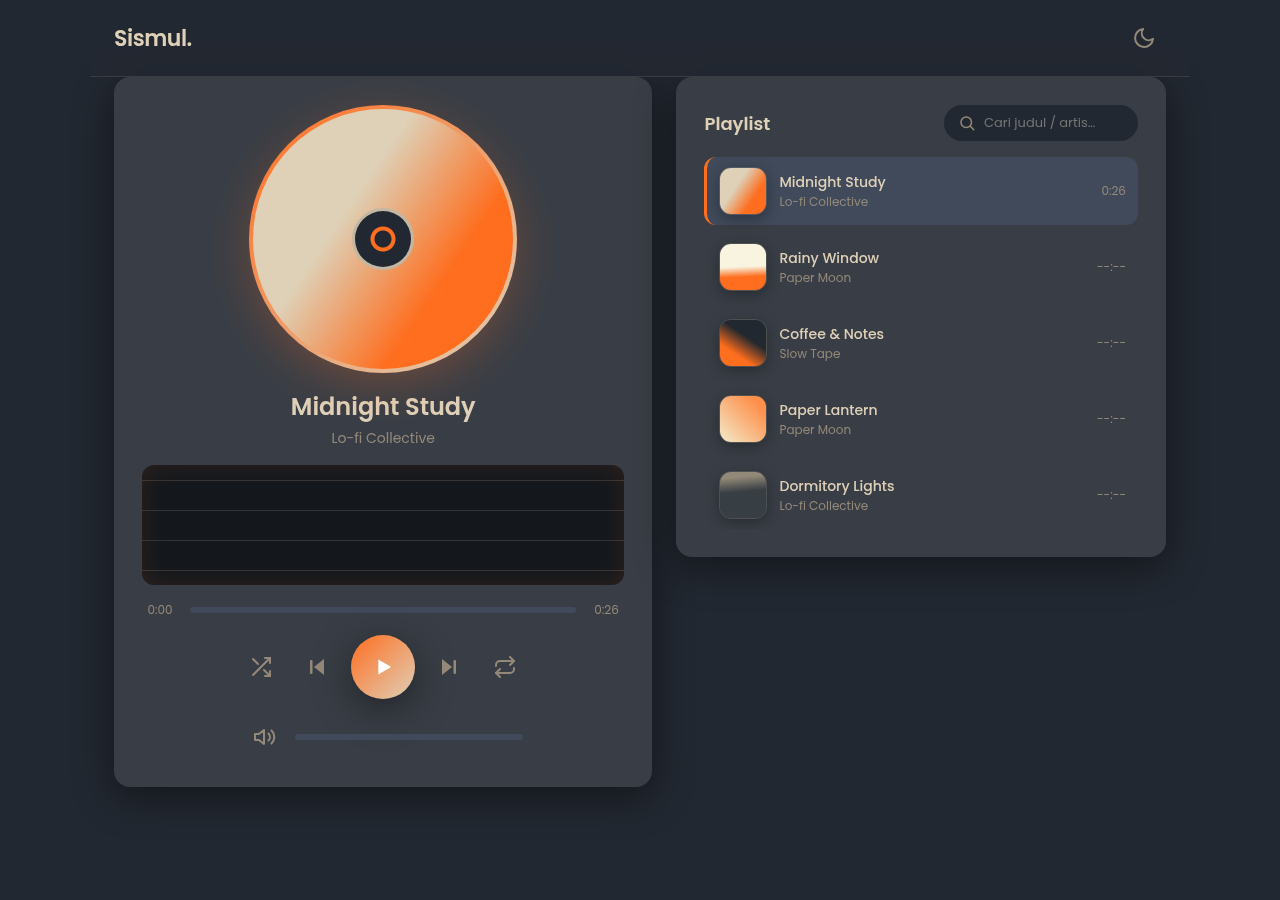
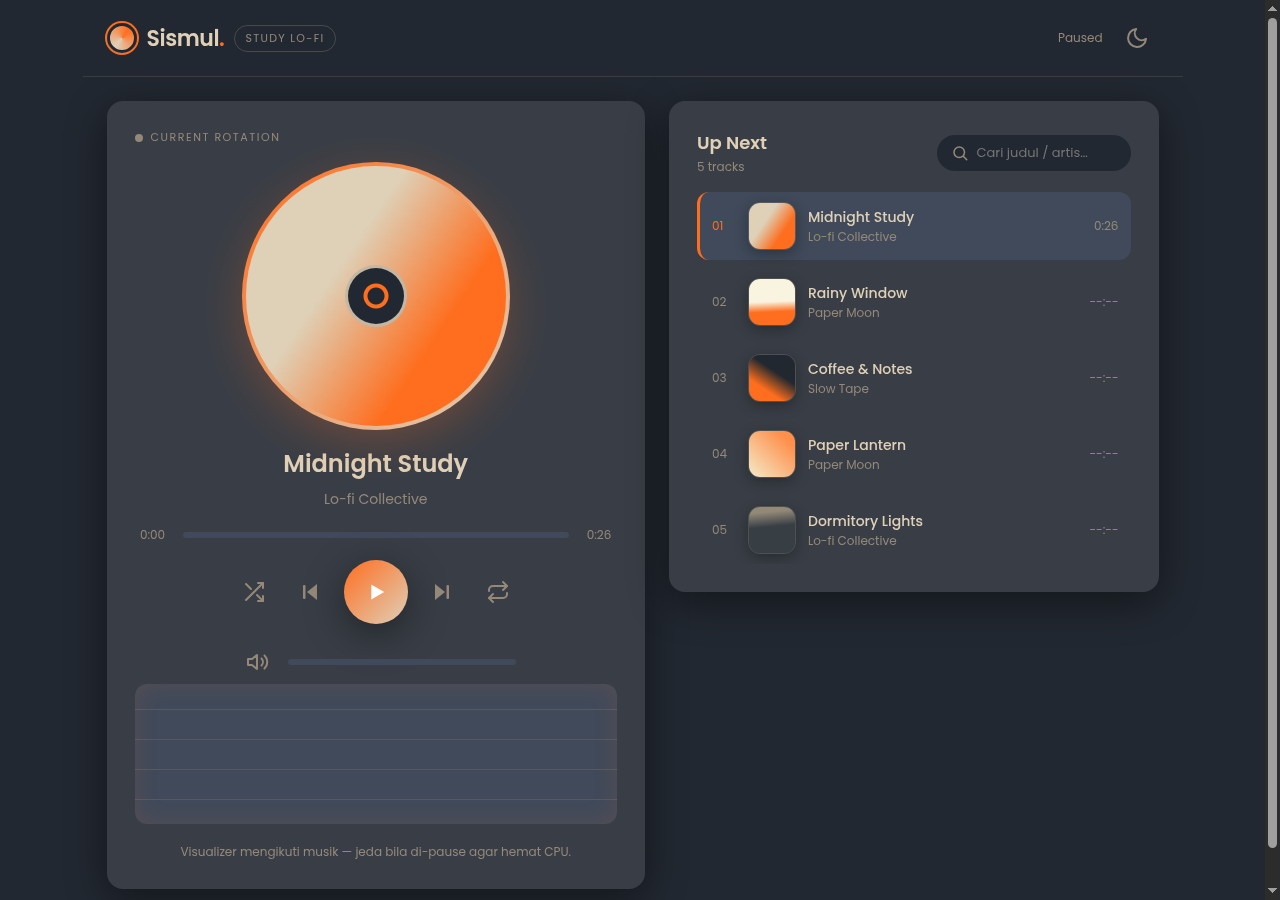
redesign: stitch quality suite wholesale, keep player logic

diff --git a/index.html b/index.html
@@ -12,63 +12,78 @@
 </head>
 <body>
   <header class="header">
-    <p class="header__logo">Sismul<span class="header__logo-dot">.</span></p>
-    <button class="btn-icon" id="themeToggle" type="button" aria-label="Ganti tema gelap terang">
-      <svg viewBox="0 0 24 24" width="24" height="24" fill="none" stroke="currentColor" stroke-width="2" stroke-linecap="round" stroke-linejoin="round" aria-hidden="true"><path d="M21 12.8A9 9 0 1 1 11.2 3a7 7 0 0 0 9.8 9.8z"/></svg>
-    </button>
+    <div class="header__brand">
+      <span class="header__mark" aria-hidden="true"></span>
+      <p class="header__logo">Sismul<span class="header__logo-dot">.</span></p>
+      <span class="header__tag">study lo-fi</span>
+    </div>
+    <div class="header__actions">
+      <span class="header__status" id="headerStatus">Paused</span>
+      <button class="btn-icon" id="themeToggle" type="button" aria-label="Ganti tema gelap terang">
+        <svg viewBox="0 0 24 24" width="24" height="24" fill="none" stroke="currentColor" stroke-width="2" stroke-linecap="round" stroke-linejoin="round" aria-hidden="true"><path d="M21 12.8A9 9 0 1 1 11.2 3a7 7 0 0 0 9.8 9.8z"/></svg>
+      </button>
+    </div>
   </header>
 
   <main class="layout">
-    <section class="player" aria-label="Pemutar musik">
-      <div class="player__cover-wrap">
-        <img class="player__cover" id="cover" src="assets/images/cover1.jpg" alt="Cover album Midnight Study" width="260" height="260" fetchpriority="high">
-      </div>
+    <section class="hero" aria-label="Pemutar musik">
+      <p class="hero__kicker"><span class="hero__dot" aria-hidden="true"></span>Current Rotation</p>
+      <div class="hero__grid">
+        <div class="hero__main">
+          <div class="player__cover-wrap">
+            <img class="player__cover" id="cover" src="assets/images/cover1.jpg" alt="Cover album Midnight Study" width="260" height="260" fetchpriority="high">
+          </div>
 
-      <div class="player__info">
-        <h1 class="player__title" id="trackTitle">Midnight Study</h1>
-        <p class="player__artist" id="trackArtist">Lo-fi Collective</p>
-      </div>
+          <div class="player__info">
+            <h1 class="player__title" id="trackTitle">Midnight Study</h1>
+            <p class="player__artist" id="trackArtist">Lo-fi Collective</p>
+          </div>
 
+          <div class="player__progress">
+            <span class="player__time" id="currentTime">0:00</span>
+            <input class="player__seek" id="seek" type="range" min="0" max="100" value="0" step="0.1" aria-label="Posisi lagu">
+            <span class="player__time" id="duration">0:00</span>
+          </div>
+
+          <div class="player__controls">
+            <button class="btn-icon" id="shuffleBtn" type="button" aria-label="Acak" aria-pressed="false">
+              <svg viewBox="0 0 24 24" width="24" height="24" fill="none" stroke="currentColor" stroke-width="2" stroke-linecap="round" stroke-linejoin="round" aria-hidden="true"><path d="M16 3h5v5"/><path d="M4 20 21 3"/><path d="M21 16v5h-5"/><path d="m15 15 6 6"/><path d="M4 4l5 5"/></svg>
+            </button>
+            <button class="btn-icon" id="prevBtn" type="button" aria-label="Lagu sebelumnya">
+              <svg viewBox="0 0 24 24" width="24" height="24" fill="currentColor" aria-hidden="true"><path d="M19 20 9 12l10-8v16z"/><rect x="5" y="5" width="2.5" height="14" rx="1"/></svg>
+            </button>
+            <button class="btn-play" id="playBtn" type="button" aria-label="Putar">
+              <svg id="iconPlay" viewBox="0 0 24 24" width="28" height="28" fill="currentColor" aria-hidden="true"><path d="M8 5.5v13l11-6.5-11-6.5z"/></svg>
+              <svg id="iconPause" viewBox="0 0 24 24" width="28" height="28" fill="currentColor" aria-hidden="true" hidden><rect x="6" y="5" width="4" height="14" rx="1"/><rect x="14" y="5" width="4" height="14" rx="1"/></svg>
+            </button>
+            <button class="btn-icon" id="nextBtn" type="button" aria-label="Lagu berikutnya">
+              <svg viewBox="0 0 24 24" width="24" height="24" fill="currentColor" aria-hidden="true"><path d="m5 4 10 8-10 8V4z"/><rect x="16.5" y="5" width="2.5" height="14" rx="1"/></svg>
+            </button>
+            <button class="btn-icon" id="repeatBtn" type="button" aria-label="Ulangi" aria-pressed="false">
+              <svg viewBox="0 0 24 24" width="24" height="24" fill="none" stroke="currentColor" stroke-width="2" stroke-linecap="round" stroke-linejoin="round" aria-hidden="true"><path d="m17 2 4 4-4 4"/><path d="M3 11v-1a4 4 0 0 1 4-4h14"/><path d="m7 22-4-4 4-4"/><path d="M21 13v1a4 4 0 0 1-4 4H3"/></svg>
+            </button>
+          </div>
+
+          <div class="player__volume">
+            <button class="btn-icon" id="muteBtn" type="button" aria-label="Bisukan">
+              <svg viewBox="0 0 24 24" width="24" height="24" fill="none" stroke="currentColor" stroke-width="2" stroke-linecap="round" stroke-linejoin="round" aria-hidden="true"><path d="M11 5 6 9H2v6h4l5 4V5z"/><path d="M15.5 8.5a5 5 0 0 1 0 7"/><path d="M18.5 5.5a9 9 0 0 1 0 13"/></svg>
+            </button>
+            <input class="player__vol" id="volume" type="range" min="0" max="1" value="0.8" step="0.01" aria-label="Volume">
+          </div>
+
+          <audio id="audio" preload="metadata"></audio>
+        </div>
+      </div>
       <canvas class="player__visual" id="visualizer" width="600" height="120" aria-hidden="true"></canvas>
-
-      <div class="player__progress">
-        <span class="player__time" id="currentTime">0:00</span>
-        <input class="player__seek" id="seek" type="range" min="0" max="100" value="0" step="0.1" aria-label="Posisi lagu">
-        <span class="player__time" id="duration">0:00</span>
-      </div>
-
-      <div class="player__controls">
-        <button class="btn-icon" id="shuffleBtn" type="button" aria-label="Acak" aria-pressed="false">
-          <svg viewBox="0 0 24 24" width="24" height="24" fill="none" stroke="currentColor" stroke-width="2" stroke-linecap="round" stroke-linejoin="round" aria-hidden="true"><path d="M16 3h5v5"/><path d="M4 20 21 3"/><path d="M21 16v5h-5"/><path d="m15 15 6 6"/><path d="M4 4l5 5"/></svg>
-        </button>
-        <button class="btn-icon" id="prevBtn" type="button" aria-label="Lagu sebelumnya">
-          <svg viewBox="0 0 24 24" width="24" height="24" fill="currentColor" aria-hidden="true"><path d="M19 20 9 12l10-8v16z"/><rect x="5" y="5" width="2.5" height="14" rx="1"/></svg>
-        </button>
-        <button class="btn-play" id="playBtn" type="button" aria-label="Putar">
-          <svg id="iconPlay" viewBox="0 0 24 24" width="28" height="28" fill="currentColor" aria-hidden="true"><path d="M8 5.5v13l11-6.5-11-6.5z"/></svg>
-          <svg id="iconPause" viewBox="0 0 24 24" width="28" height="28" fill="currentColor" aria-hidden="true" hidden><rect x="6" y="5" width="4" height="14" rx="1"/><rect x="14" y="5" width="4" height="14" rx="1"/></svg>
-        </button>
-        <button class="btn-icon" id="nextBtn" type="button" aria-label="Lagu berikutnya">
-          <svg viewBox="0 0 24 24" width="24" height="24" fill="currentColor" aria-hidden="true"><path d="m5 4 10 8-10 8V4z"/><rect x="16.5" y="5" width="2.5" height="14" rx="1"/></svg>
-        </button>
-        <button class="btn-icon" id="repeatBtn" type="button" aria-label="Ulangi" aria-pressed="false">
-          <svg viewBox="0 0 24 24" width="24" height="24" fill="none" stroke="currentColor" stroke-width="2" stroke-linecap="round" stroke-linejoin="round" aria-hidden="true"><path d="m17 2 4 4-4 4"/><path d="M3 11v-1a4 4 0 0 1 4-4h14"/><path d="m7 22-4-4 4-4"/><path d="M21 13v1a4 4 0 0 1-4 4H3"/></svg>
-        </button>
-      </div>
-
-      <div class="player__volume">
-        <button class="btn-icon" id="muteBtn" type="button" aria-label="Bisukan">
-          <svg viewBox="0 0 24 24" width="24" height="24" fill="none" stroke="currentColor" stroke-width="2" stroke-linecap="round" stroke-linejoin="round" aria-hidden="true"><path d="M11 5 6 9H2v6h4l5 4V5z"/><path d="M15.5 8.5a5 5 0 0 1 0 7"/><path d="M18.5 5.5a9 9 0 0 1 0 13"/></svg>
-        </button>
-        <input class="player__vol" id="volume" type="range" min="0" max="1" value="0.8" step="0.01" aria-label="Volume">
-      </div>
-
-      <audio id="audio" preload="metadata"></audio>
+      <p class="hero__hint">Visualizer mengikuti musik — jeda bila di-pause agar hemat CPU.</p>
     </section>
 
     <aside class="playlist" aria-label="Daftar putar">
       <div class="playlist__head">
-        <h2 class="playlist__title">Playlist</h2>
+        <div>
+          <h2 class="playlist__title">Up Next</h2>
+          <p class="playlist__sub" id="queueCount">5 tracks</p>
+        </div>
         <label class="playlist__search">
           <svg viewBox="0 0 24 24" width="18" height="18" fill="none" stroke="currentColor" stroke-width="2" stroke-linecap="round" aria-hidden="true"><circle cx="11" cy="11" r="7"/><path d="m21 21-4.3-4.3"/></svg>
           <input id="search" type="search" placeholder="Cari judul / artis…" aria-label="Cari lagu">

diff --git a/css/style.css b/css/style.css
@@ -50,8 +50,31 @@ body {
   border-bottom: 1px solid color-mix(in srgb, var(--text-muted) 22%, transparent);
 }
 
+.header__brand { display: flex; align-items: center; gap: 10px; }
+.header__mark {
+  width: 30px;
+  height: 30px;
+  border-radius: 50%;
+  background: conic-gradient(from 40deg, var(--accent), var(--accent-2), var(--accent));
+  box-shadow: inset 0 0 0 3px var(--bg), 0 0 0 2px var(--accent);
+}
 .header__logo { font-size: 22px; font-weight: 600; letter-spacing: -0.02em; }
-.header__logo-dot { color: var(--accent-2); }
+.header__logo-dot { color: var(--accent); }
+.header__tag {
+  font-size: 11px;
+  letter-spacing: 0.12em;
+  text-transform: uppercase;
+  color: var(--text-muted);
+  border: 1px solid color-mix(in srgb, var(--text-muted) 35%, transparent);
+  padding: 4px 10px;
+  border-radius: 99px;
+}
+.header__actions { display: flex; align-items: center; gap: 12px; }
+.header__status {
+  font-size: 12px;
+  color: var(--text-muted);
+  font-variant-numeric: tabular-nums;
+}
 
 .layout {
   display: grid;
@@ -59,10 +82,10 @@ body {
   gap: var(--gap);
   max-width: 1100px;
   margin: 0 auto;
-  padding: 0 24px 48px;
+  padding: 24px 24px 48px;
 }
 
-.player,
+.hero,
 .playlist {
   background: var(--surface);
   border-radius: var(--radius);
@@ -70,12 +93,61 @@ body {
   padding: 28px;
 }
 
-.player {
+.hero__kicker {
+  display: flex;
+  align-items: center;
+  gap: 8px;
+  font-size: 11px;
+  letter-spacing: 0.14em;
+  text-transform: uppercase;
+  color: var(--text-muted);
+  margin-bottom: 16px;
+}
+
+.hero__dot {
+  width: 8px;
+  height: 8px;
+  border-radius: 50%;
+  background: var(--accent);
+  box-shadow: 0 0 10px var(--accent);
+}
+
+body[data-playing="false"] .hero__dot { background: var(--text-muted); box-shadow: none; }
+
+.hero__grid {
+  display: grid;
+  grid-template-columns: 1fr;
+  gap: 20px;
+  align-items: start;
+}
+
+.hero__main { min-width: 0; }
+.player__visual { width: 100%; }
+
+.track__num {
+  font-size: 12px;
+  color: var(--text-muted);
+  font-variant-numeric: tabular-nums;
+  min-width: 24px;
+}
+
+.track--active .track__num { color: var(--accent); }
+
+.hero__main {
   display: flex;
   flex-direction: column;
   align-items: center;
   gap: 16px;
   text-align: center;
+}
+
+.hero__hint { font-size: 12px; color: var(--text-muted); text-align: center; margin-top: 12px; }
+
+.player__info {
+  display: flex;
+  flex-direction: column;
+  align-items: center;
+  gap: 4px;
 }
 
 /* Cover berputar seperti piringan hitam */
@@ -247,6 +319,7 @@ input[type="range"]:focus-visible { outline: 2px solid var(--accent); }
 }
 
 .playlist__title { font-size: 18px; font-weight: 600; }
+.playlist__sub { font-size: 12px; color: var(--text-muted); margin-top: 2px; }
 
 .playlist__search {
   display: flex;
@@ -336,10 +409,20 @@ body[data-playing="true"] .track--active .track__eq { display: flex; }
 
 .toast--show { transform: translate(-50%, 0); opacity: 1; }
 
+@media (min-width: 700px) {
+  .player__visual { height: 140px; }
+}
+
 @media (min-width: 900px) {
   .layout { grid-template-columns: 1.1fr 1fr; align-items: start; }
   .player__cover { width: 260px; height: 260px; }
+  .playlist { position: sticky; top: 76px; }
   .playlist__list { max-height: 520px; overflow-y: auto; }
+}
+
+@media (max-width: 480px) {
+  .header__tag, .header__status { display: none; }
+  .hero, .playlist { padding: 20px; }
 }
 
 @media (prefers-reduced-motion: reduce) {

diff --git a/js/main.js b/js/main.js
@@ -25,6 +25,8 @@ const repeatBtn = $("repeatBtn");
 const searchEl = $("search");
 const themeToggle = $("themeToggle");
 const toast = $("toast");
+const headerStatus = $("headerStatus");
+const queueCount = $("queueCount");
 
 let toastTimer;
 // Tampilkan pesan singkat 3 detik.
@@ -88,6 +90,7 @@ function renderState(state) {
   iconPlay.hidden = playing;
   iconPause.hidden = !playing;
   playBtn.setAttribute("aria-label", playing ? "Jeda" : "Putar");
+  if (headerStatus) headerStatus.textContent = playing ? "Now Playing" : "Paused";
   shuffleBtn.setAttribute("aria-pressed", String(state.isShuffle));
   repeatBtn.setAttribute("aria-pressed", String(state.repeatMode !== "off"));
   repeatBtn.setAttribute("aria-label", `Ulangi: ${state.repeatMode}`);
@@ -156,6 +159,7 @@ document.addEventListener("keydown", (e) => {
 });
 
 // Render awal. Jika playlist kosong, nonaktifkan kontrol.
+if (queueCount) queueCount.textContent = `${tracks.length} tracks`;
 list.render(tracks);
 const hasTracks = tracks.length > 0;
 playBtn.disabled = !hasTracks;

diff --git a/js/playlist.js b/js/playlist.js
@@ -13,6 +13,10 @@ export function createPlaylist(listEl, { onSelect } = {}) {
     li.setAttribute("role", "button");
     li.setAttribute("aria-label", `Putar ${track.title} oleh ${track.artist}`);
 
+    const num = document.createElement("span");
+    num.className = "track__num";
+    num.textContent = String(index + 1).padStart(2, "0");
+
     const img = document.createElement("img");
     img.className = "track__thumb";
     img.src = track.cover;
@@ -40,7 +44,7 @@ export function createPlaylist(listEl, { onSelect } = {}) {
     dur.className = "track__dur";
     dur.textContent = track.duration ? formatTime(track.duration) : "--:--";
 
-    li.append(img, meta, eq, dur);
+    li.append(num, img, meta, eq, dur);
     li.addEventListener("click", () => onSelect?.(index));
     li.addEventListener("keydown", (e) => {
       if (e.key === "Enter" || e.key === " ") { e.preventDefault(); onSelect?.(index); }
